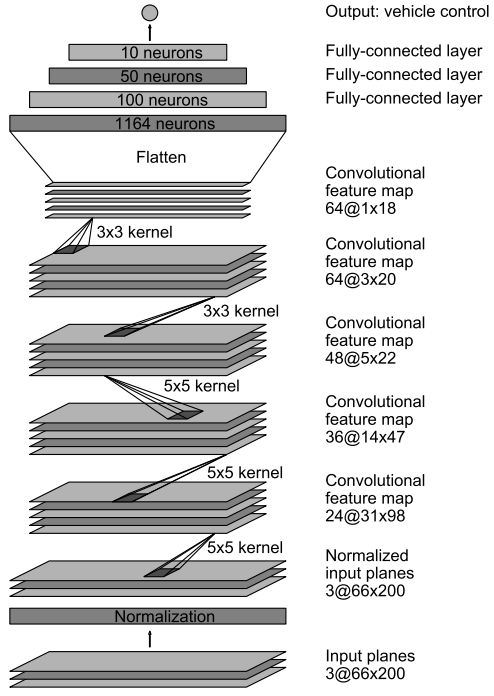
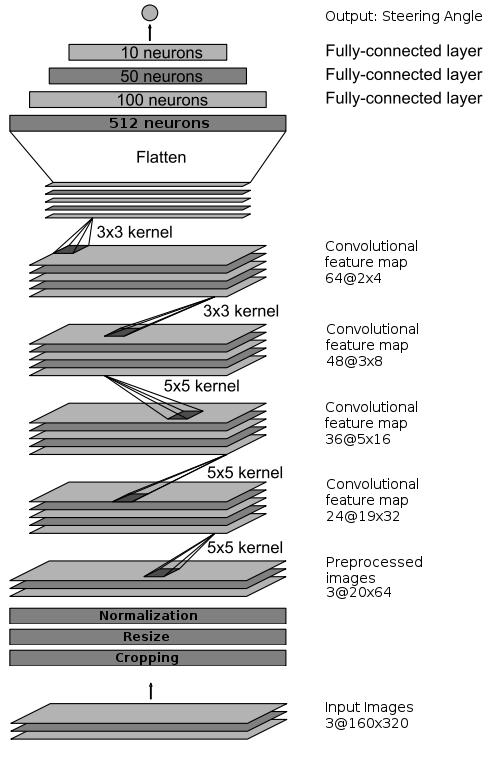
readme updates

diff --git a/README.md b/README.md
@@ -57,17 +57,17 @@ The README thoroughly discusses the approach taken for deriving and designing a 
 
 My architecture is modeled after the network depicted in nVidia's [End to End Learning for Self-Driving Cars](http://images.nvidia.com/content/tegra/automotive/images/2016/solutions/pdf/end-to-end-dl-using-px.pdf) paper.  The architecture is a traditional feed-foward layered architecture in which the output of one layer is fed to the layer above.  At a high level the network consists of 4 convolutional layers, followed by 4 fully connected layers, with the final layer as an output layer.  Since we are working with a regression problem, the output layer is a single continuous value, as apposed to the softmax probabilities used for classification tasks such as traffic sign identification.
 
-Before the first convolutional network a small amount of preprocessing takes place within the pipeline.  This includes cropping the image, resizing, and batch normalization.
+Before the first convolutional layer, a small amount of preprocessing takes place within the pipeline.  This includes cropping the image, resizing, and batch normalization.
 
 Each convolitional has a 1x1 stride, and uses a 2x2 max pooling operation to reduce spatial resolution. The first two convolutional layers use a 5x5 filter, while the second two use a 3x3 filter as the input dimensionality is reduced.
 
-For non-linearity, RELU activates are used for each convolutional, and fully connected layer except for the final output layer.
-
 For regularization, a spatial dropout operation is added after each convolutional layer.  Spatial dropout layers drop entire 2D features maps instead of individual features.
+
+For non-linearity, RELU activationd are used for each convolutional, as well as each fully connected layer except for the final output layer.
 
 The output from the forth convolutional layer is flattened and fed into a classifier composed of four fully connected layers.  The fully connected layers each reduce the number of features with the final layer outputting a single coninuous value.
 
-See the diagram below.  This diagram is modified from the diagram found in the the nVidia paper.  The values have been modified to represent input sizes of our recorded training data.
+See the diagram below.  This diagram is modified from the original source diagram found in the the nVidia paper.  The values have been modified to represent input sizes of our recorded training data.
 
 ![nVidia Architecture](./images/architecture.png)
 
